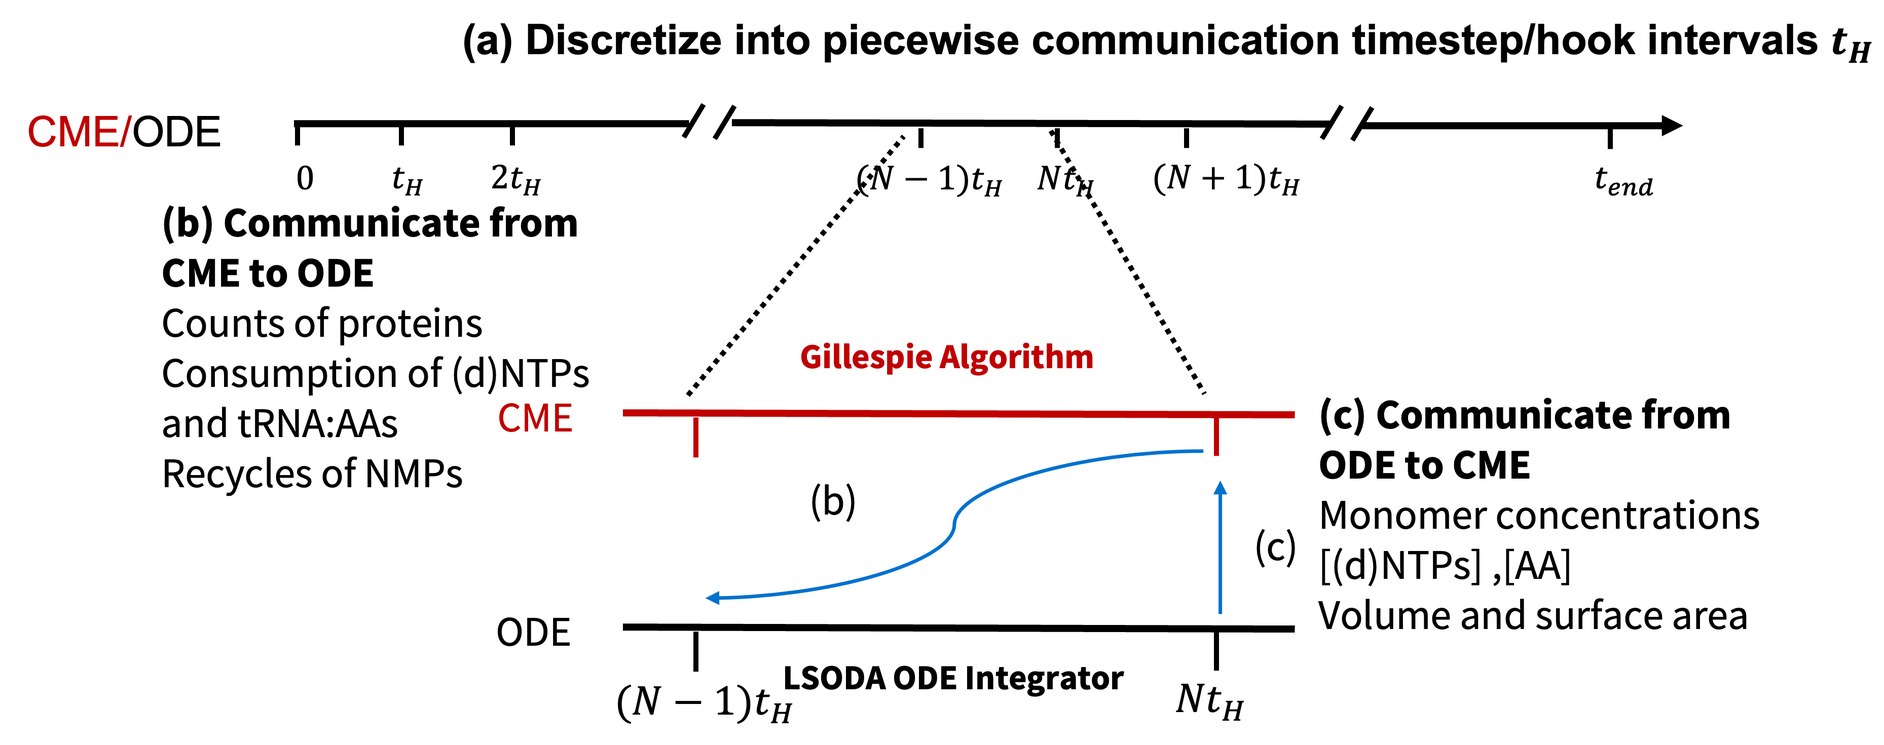
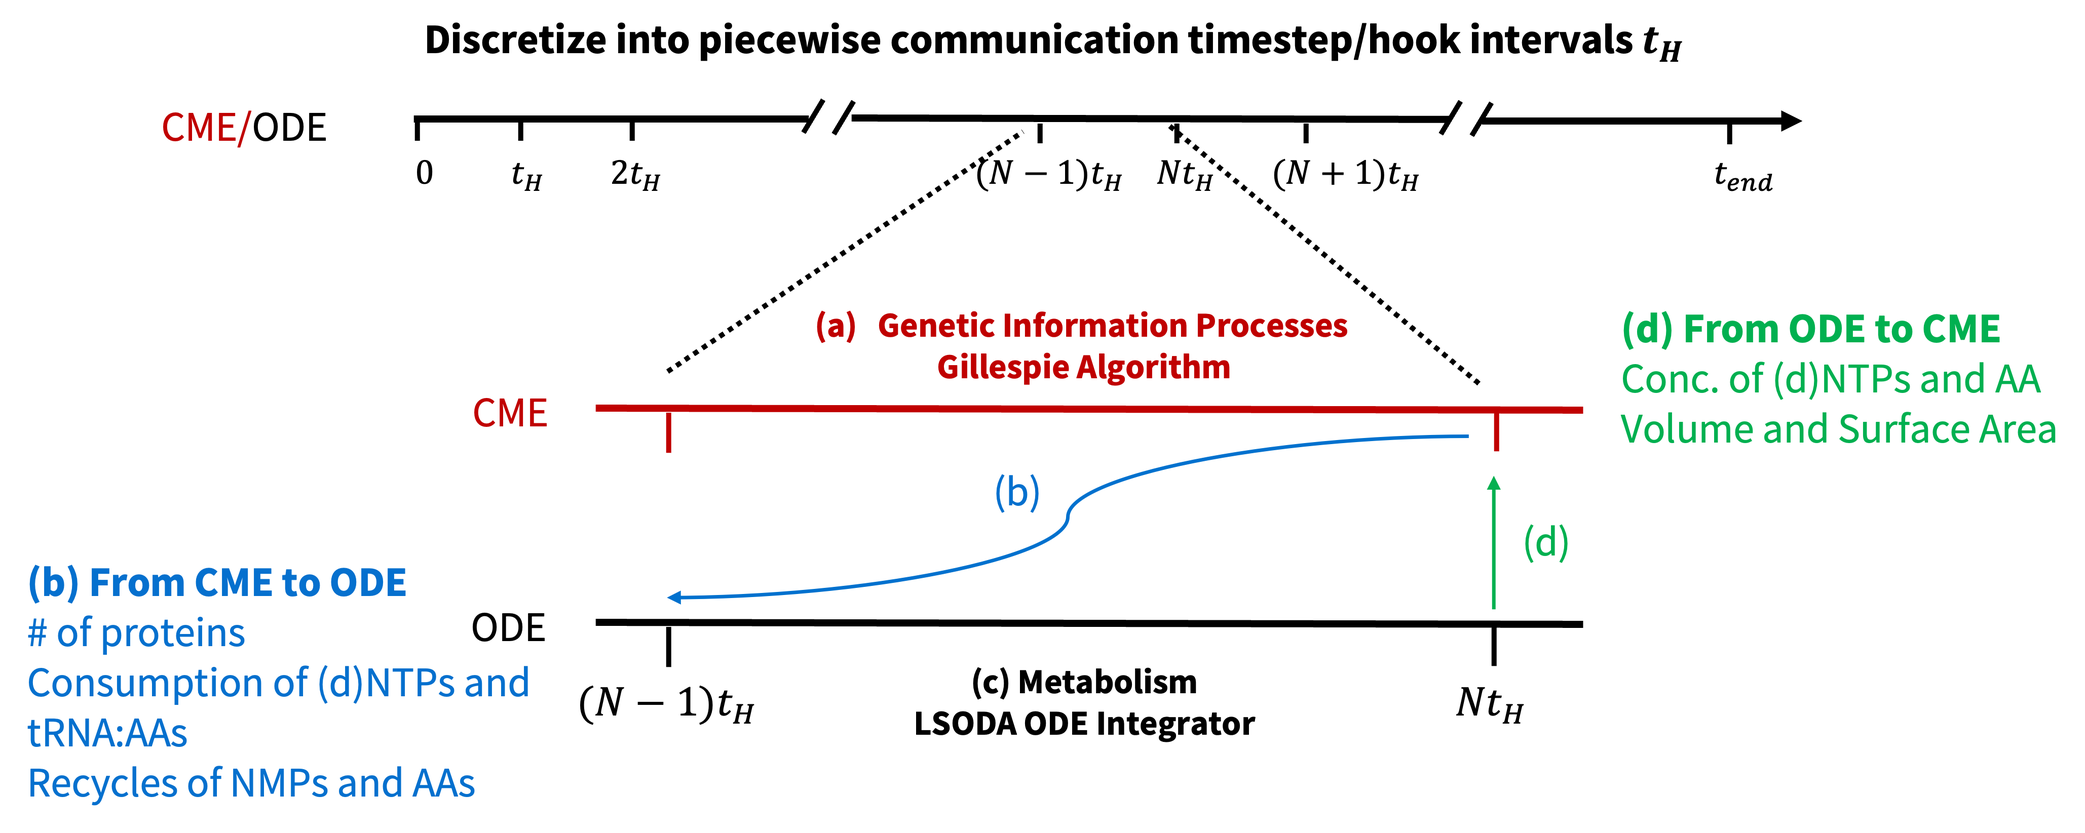
update

diff --git a/CME/WCM/README.md b/CME/WCM/README.md
@@ -1,18 +1,46 @@
 # CME-ODE Whole-Cell Model of a Genetically Minimal Cell, JCVI-Syn3A
 
 ## Outline:
-
-1. Run CME/ODE Whole-Cell Model in Parallel
-2. Minimal Genome and Genetic Information Processes
-3. Essential Metabolism
-4. Hybrid CME-ODE Algorithm
-5. Analysis
-6. Discussion
+1. [Run CME/ODE Whole-Cell Model in Parallel](#1-run-cmeode-whole-cell-model-in-parallel)
+2. [Minimal Genome and Genetic Information Processes](#2-minimal-genome-and-genetic-information-processes)
+3. [Essential Metabolism](#3-essential-metabolism)
+4. [Hybrid CME-ODE Algorithm](#4-hybrid-cme-ode-algorithm)
+5. [Analysis](#5-analysis)
+6. [Discussion](#6-discussion)
   
 ## 1. Run CME/ODE Whole-Cell Model in Parallel
 
 We launch independent cell replicates to sample the statistically significant cellular dynamics. To increase the simulation speed, running independent replicates in parallel is inevitable. In our current implementation, we use `mpirun` module to launch simulation python scripts in parallel.  The
 main script is `WCM CMEODE Hook.py` calling multiple other python scripts to construct and simulate the genetic information processes, metabolism and their interactions over the whole cell cycle. Essentially, we use LM and build-in Gillepsie algorithm to construct and then simulate the genetic information processes. The ODEs are written/constructed by odecell, a package developed by former group member and simulated by well-known LSODA algorithm in Scipy library.
+
+### Scripts
+
+<details>
+<summary><strong>Click to EXPAND: Explanation of All Python Scripts </strong></summary>
+
+#### Main Driver
+
+- `WCM_CMEODE_Hook.py` — Main script to launch the CMEODE simulation.
+
+#### Simulation Core
+
+- `species_counts.py` — Python Class for managing species count data in the hook algorithm.
+- `integrate.py` — Performs ODE integration using *lsoda* from Scipy.
+- `initiation.py` — Initializes constants, time traces, and cell membrane.
+- `communicate.py` — Syncs CME and ODE states, computes costs, and updates the membrane.
+- `hookSolver_CMEODE.py` — Defines `hookSimulation`, the main hook interval operation.
+- `hook_CMEODE.py` — Manages operations that communicate CME and ODE during hooks.
+- `filesaving.py` — Exports time traces, surface area, and fluxes to CSV files.
+
+#### Biology Modules
+
+- `rxns_CME.py` — Adds genetic information process (GIP) reactions to CME (e.g., replication, transcription, translation, tRNA charging).
+- `cme_complexation.py` — Adds protein complex formation reactions to CME.
+- `rxns_ODE.py` — Builds the ODE system using `odecell` (metabolic parameters from `kinetic_params.xlsx`).
+- `replication.py` — Defines DNA replication initiation and reactions (GIP parameter from `kinetic_params.xlsx`).
+- `GIP_rates.py` — Computes reaction rates for GIP processes (GIP parameter from `kinetic_params.xlsx`).
+
+</details>
 
 <p align="center">
   <img src="../figs/figs_WCM/parallel.png" width="900" alt="mpirun to launch parallel simulation"> <br>
@@ -58,28 +86,15 @@ Each simulation replicate with index *i* generates:
 - `log_i.txt`: Log file with timestamps, printed reactions, run times, and any warnings/errors.
 
 Output files are saved to directories defined and created in `mpirun.sh`. Typical CSV file size ranges from **100–200 MB** for a 7200 s simulation with 1 s hook intervals.
-### Scripts
 
-<details>
-<summary><strong>Click to expand: Derivation of the RDME</strong></summary>
-
-Here is a detailed derivation of the Reaction-Diffusion Master Equation (RDME).
-
-Start from the chemical master equation (CME):
-$$
-\frac{dP(\mathbf{x},t)}{dt} = \cdots
-$$
-
-Then extend it by adding diffusion terms:
-$$
-\cdots
-$$
-
-</details>
 
 ### Input Files
 
 Four main input files are used in whole-cell simulation: one Genbank file, one SBML file, and two Excel files. The `syn3A.gb` Genebank file contains the sequences and functions of genes, RNAs, and proteins, and the `Syn3A_updated.xml` SBML file contains the metabolic reactions (reactants, stoichiometries). `The intitial_concentration.xlsx` file contains the initial count/concentrations of proteins and metabolite while `kinetic params.xlsx` contains the kinetic parameters of the GIP and metabolic reactions.
+
+
+<details>
+<summary><strong>Click to EXPAND: Breakdown of Input Files</strong></summary>
 
 - `syn3A.gb` — GenBank file of JCVI-Syn3A 
   - Obtained from ([NCBI Accession: CP016816](https://www.ncbi.nlm.nih.gov/nuccore/CP016816)).
@@ -110,18 +125,200 @@ Four main input files are used in whole-cell simulation: one Genbank file, one S
 
 - `complex_formation.xlsx` — Defines the composition and initial counts of protein complexes.
 
+</details>
 
+Now, we will focus on gene **JCVISYN3A_0011** to show how the different input files function in our simulation.
 
+The genome information of JCVI-syn3A is stored as standard Genbank file on NCBI with [ACCESSION Number CP016816.2](https://www.ncbi.nlm.nih.gov/nuccore/CP016816.2/). The Genbank file holds much more information than the pure nucleotide sequence. 
+
+Go to Genbank file under `input_data` folder and open with text editor. Search **JVCISYN3A_0011** and you wil see the following figure. **JCVISYN3A_0011** is the LocusTag of this certain gene in organism JCVI-syn3A, and *JCVISYN3A_* serving as a unique idetifier. 0011 is the locusNum that will be heavily used in the modelling to distinguish unique genes, RNAs, and proteins from each other. The start and end index of **JCVISYN3A_0011** is 15153 and 16799, respectively and the nucleotide sequence is at the end of the Genbank file. **JCVISYN3A_0011** is protein-coding gene and the protein is "Nucleoside Transporter ABC substrate-binding protein" with amino acid sequence shown. This protein is one subunit of ribonucleoside ATP-binding cassette (ABC) transporters that is assumed to import all nucleosides for Syn3A.
+
+<p align="center">
+  <img src="../figs/figs_WCM/jcvisyn3a_0011.png" width="450" alt="mpirun to launch parallel simulation"> <br>
+  <b>Figure 2. Entry JCVISYN3A_0011 in Syn3A's Genbank file</b>
+</p>
+
+SBML (System Biology Markup Language) format is widely used in storing computational models of biological processes. The SBML file here contains the whole metabolic system of Syn3A, including compartments (cellular and extracellular), species, reactions, gene product (enzymatic or transporter proteins associated with reactions), and objective function (for Flux Balance Analysis). 
+It's worth noting that the kinetic constants of 175 reactions are in \textit{kinetic\_params.xlsx}.
+
+Nucleoside Transporter ABC substrate-binding protein encode by gene **JCVISYN3A_0011** functions in reaction DSGNabc, irreversible transport of deoxyguanosine in nucleotide metabolism. Figure \ref{fig:sbml} shows reaction DSGNabc in SBML file. We define \textit{reversible} as \textit{false} since DSGNabc is a irreversible transport reaction. There are three reactants and four products. The geneProductAssociation rule is *and*, meaning the four subunit proteins need to function cooperatively.
+
+<p align="center">
+  <img src="../figs/figs_WCM/sbml.png" width="450" alt="SBML entry of DSGNabc reaction"> <br>
+  <b>Figure 3. Entry Reaction DSGNabc in SBML file</b>
+</p>
+
+The kinetic constants for this DSGNabc reaction in `kinetic\_params.xlsx` is shown as following.
+
+<p align="center">
+  <img src="../figs/figs_WCM/dsgnabc_kinetic.png" width="450" alt="SBML entry of DSGNabc reaction"> <br>
+  <b>Figure 4. Kinetic Constants for Reaction DSGNabc</b>
+</p>
 
 ## 2. Minimal Genome and Genetic Information Processes
 
-## 3. Essential Metabolism
+### Genetically Minimized Bacterium, JCVI-Syn3A
+
+Minimal cell, JCVI-syn3A is a synthetic bacterium based on mother organism Mycoplasma mycoides capri published by J. Craig Venter Institute in 2016 \cite{hutchison_design_2016}. JCVI-syn3A has a doubling time of about 2 hours and consistently forms spherical cells of approximately 200 nm in radius.
+
+JCVI-syn3A's genome is minimal in all living organism, 543 kbp long and containing 452 genes code for proteins and 38 genes for RNAs. The ratio of unclear protein-coding genes is 90 out of 452, which is also smallest compared to other well-studied organism, including yeast and E. coli \cite{breuer_essential_2019}.
+
+<p align="center">
+  <img src="../figs/figs_WCM/syn3A_genome.png" width="450" alt="Minimized Genome"> <br>
+  <b>Figure 5. Left: Protein Coding Genes of JCVI-syn3A. Only less than 90 genes are unclear.  <br>
+  Right: JCVI-syn3A with genetic information processes and metabolism shown. </b>
+</p>
+
+### Genetic Information Processes
+
+Genetic information processes connect the blueprint genes to functional proteins. In our current whole cell model of minimal cell, we mainly consider seven types of processes listed in table.
+
+Replication copies the genetic information with the regulation of replication initiation. Transcription copies sequential information from DNA to RNA. There are three types of RNA, including mRNA, rRNA and tRNA that are tightly connected by translation. Translation takes place on ribosomes, where mRNA is read and an amino acid chain is generated according to the sequence of mRNA. rRNA, together with other ribosome proteins make up ribosomes in ribosomal biogenesis \cite{earnest_ribosome_2016}. tRNA is the carriers and identifier of amino acid to the ribosome. 
+
+<p align="center">
+  <img src="../figs/figs_WCM/gip_table.png" width="450" alt="GIP reactions"> <br>
+  <b>Figure 6. Left: Genetic Information Flow. <br>
+  Right: Functions of GIP reactions. </b> 
+</p>
+
+
+The translation and degradation reactions in current whole cell model are more precise compared to the simplest case in Tutorial 2 as for each reaction, mRNA first needs to bind with a complex machinery, degradosome or ribosome. As the busiest species in genetic information processes, mRNA can also be degraded by binding with degradosome. This competition of mRNA to bind with ribosome or degradosome is a important pathway to regulate genetic information processes that will shown in the following result.
+
+
+Replication initiation is modeled by the binding of multi-domain protein DnaA (encoded by JCVISYN3A\_0001) and replisome with certain region called oriC on the chromosome \cite{thornburg_kinetic_2019}. 
+
+<p align="center">
+  <img src="../figs/figs_WCM/oric_dnaA.png" width="450" alt="DnaA with Ori"> <br>
+  <b>Figure 7. Left: Left: oriC region. 9 nucleotide signature binding with DnaA domain IV shown in yellow and red, 3 nuclotide AT rich region binding with DnaA domain III shown in grey. <br>
+  Right: PDB structure of DnaA domain IV and domain III binding with chromosome a): \cite{fujikawa_structural_2003} b): \cite{duderstadt_dna_2011} </b> 
+</p>
+
+First stage of initiation is the binding of DnaA's Domain IV with nine-nucleotide signatures on double-strand DNA(three of them, shown in red and yellow in Figure \ref{oric_dnaA}). This binding will open a pocket for DnaA's Domain III to bind with AT rich region on single-strand DNA following the nine-nucleotide signatures to build a filament of DnaA on single-strand DNA. The final step is the binding of replisome with the chromosome after the filament grows above 15 DnaA with 30 DnaA maximum due to the length of AT rich region is 90. In current model, the assembly of replisome is not explicitly included.
+
+<p align="center">
+  <img src="../figs/figs_WCM/initiation.png" width="450" alt="DnaA with Ori"> <br>
+  <b>Figure 8. Three stage DNA replication initiation </b> 
+</p>
+
+Replication occurs gene by gene when replisomes move along the circular chromosome from oriC to ter in two directions. Since the locations of genes are fixed, the replication happens in order. So our replication model is ordered and bidirectional.
+
+<p align="center">
+  <img src="../figs/figs_WCM/rep.png" width="450" alt="DnaA with Ori"> <br>
+  <b>Figure 9. Ordered and Bidirectional Replication </b> 
+</p>
+
+The equivalent reaction to duplicate certain gene is in Table \ref{tab:CMErxns} The rate to replicate one gene in Table \ref{tab:CMErates} is determined by a polymerization rate form proposed in \cite{hofmeyr_generic_2013}.  
+
+**Table 1: Reactions and Rates for Replication, Transcription, Translation and Degradation**
+
+| **Processes**  | **Reactions**                                                                 | **Kinetic Constant**                      |
+|----------------|-------------------------------------------------------------------------------|-------------------------------------------|
+| Replication     | $G_{\text{locusNum}} \rightarrow 2G_{\text{elongation}}$                      | $k_{\text{replication}}^{\text{locusNum}}$ |
+| Transcription   | $RNAP + G_{\text{locusNum}} \rightarrow RNAP:G_{\text{locusNum}}$            | $k_{\text{trsc}}^{\text{binding}}$         |
+|                | $RNAP:G_{\text{locusNum}} \rightarrow R_{\text{locusNum}} + RNAP + G_{\text{locusNum}}$ | $s_{\text{trsc}}^{\text{locusNum}} k_{\text{trsc}}^{\text{elongation}}$ |
+| Translation     | $Ribosome + R_{\text{locusNum}} \rightarrow Ribosome:R_{\text{locusNum}}$     | $k_{\text{trans}}^{\text{binding}}$        |
+|                | $Ribosome:R_{\text{locusNum}} \rightarrow P_{\text{locusNum}} + Ribosome + R_{\text{locusNum}}$ | $k_{\text{trans}}^{\text{elongation}}$ |
+| Degradation     | $Degradosome + R_{\text{locusNum}} \rightarrow Degradosome:R_{\text{locusNum}}$ | $k_{\text{degra}}^{\text{binding}}$       |
+|                | $Degradosome:R_{\text{locusNum}} \rightarrow NMPs + Degradosome$              | $k_{\text{degra}}^{\text{depoly}}$        |
+
+Transcription, translation and degradation are all depicted as a two-step binding and (de)polymerizatoin reactions where the polymerization in transcription and translation shares the same rate form as that in replication. The rate for degradation from a mRNA to its monomers is calculate by divide the monomer depletion rate over the length of mRNA.
+
+**Table 2: Rate Form for Replication, Transcription, Translation and Degradation**
+
+| **Processes**   | **(De)polymerization Constants**                  | **Formulation**                                                                                                                                  |
+|-----------------|---------------------------------------------------|--------------------------------------------------------------------------------------------------------------------------------------------------|
+| Replication     | $k_{\text{elongation}}^{\text{replication}}$      | $\dfrac{k_{\text{replication}}^{\text{cat}}}{\dfrac{K_{D1} K_{D2}}{[dNTP_1][dNTP_2]} + \sum_i \dfrac{K_{Di}}{[dNTP_i]} + L_{\text{DNA}} - 1}$     |
+| Transcription   | $k_{\text{elongation}}^{\text{trsc}}$             | $\dfrac{k_{\text{transcription}}^{\text{cat}}}{\dfrac{K_{D1} K_{D2}}{[NTP_1][NTP_2]} + \sum_i \dfrac{K_{Di}}{[NTP_i]} + L_{\text{RNA}} - 1}$     |
+| Translation     | $k_{\text{elongation}}^{\text{trans}}$            | $\dfrac{k_{\text{translation}}^{\text{cat}}}{\dfrac{K_{D1} K_{D2}}{[\text{tRNA:aa}_1][\text{tRNA:aa}_2]} + \sum_i \dfrac{K_{Di}}{[\text{tRNA:aa}_i]} + L_{\text{protein}} - 1}$ |
+| Degradation     | $k_{\text{depoly}}^{\text{degra}}$                | $\dfrac{k_{\text{cat}}^{\text{degra}}}{L_{\text{mRNA}}}$                                                                                        |
+
+## 3. Essential Metabolism and Rate Law
+
+### Essential Metabolism
+
+As mentioned, replication, transcription, and translation all require monomers (deoxyribonucleotide (dNTPs), ribonucleotide (NTPs), and amino acids (AAs)) for the polymerizations reactions. 
+
+All the supply of monomers comes from metabolism of JCVI-syn3A. The (d)NTPs are generated in nucleotide metabolism that transport extracellular nucleoside and convert nucleoside to (d)NTPs used in the DNA and RNA synthesis. The other building blocks, such as phosphoribosyl pyrophosphate (prpp), phosphoenolpyruvate (pep), and 1,3-Bisphosphoglyceric acid (1,3dpg) along these pathways are the products in glycolysis in central metabolism \ref{NTP_supply}.
+
+<p align="center">
+  <img src="../figs/figs_WCM/NTP_supply.png" width="450" alt="GTP synthesis"> <br>
+  <b>Figure 10. Supply of GTP and dGTP for DNA and RNA synthesis in nucleotide metabolism. The metabolites in the bracket come from central metabolism </b> 
+</p>
+
+The whole metabolism network can be separated to five connected sub-networks, including central, nucleotide, lipid, cofactor and amino acid. Glucose 6-phosphate (g6p) the immediate downstream of glucose in glycolysis connects central and lipid metabolism, while Adenosine triphosphate (ATP) that generated in glycolysis provides energy for reactions in all five sub-networks. 
+
+<p align="center">
+  <img src="../figs/figs_WCM/metabolism.png" width="450" alt="GTP synthesis"> <br>
+  <b>Figure 11. Whole Metabolism of JCVI-syn3A with five subsystems: central, nucleotide, lipid, cofactor and amino acid. </b> 
+</p>
+
+In our current whole cell modeling, 197 metabolites are included, 148 cytoplasmic and 49 extracellular. 175 reactions connect the metabolites. Shown in the network of central metabolism, the orange nodes are the metabolite IDs. We use suffix '\_c' to denote cytoplasmic and '\_e' for extracellular. The blue arrows are reactions connecting different metabolites, with names in dark blue and related proteins' locusNums under the names. 
+
+ATP as the major energetic molecules energize cellular processes, without which the cell will die. In JCVI-syn3A, glycolysis is the only way to generate ATP. Phosphoenolpyruvate (pep) is an intermediate in both the upstream and downstream in glycolysis.
+
+<p align="center">
+  <img src="../figs/figs_WCM/central_pep.png" width="450" alt="GTP synthesis"> <br>
+  <b>Figure 12. Central Metabolism in JCVI-syn3A. Phosphoenolpyruvate (pep) is both the upstream and downstream of glycolysis. 1,3-Bisphosphoglyceric acid (1,3dpg), Phosphoribosyl pyrophosphate (prpp) and pep are in nucleotide metabolism. </b> 
+</p>
+
+
+### Convenience Rate Law
+
+Most reactions in the metabolism requires certain proteins produced in genetic information processes as enzymes or transporters. Convenience rate law and random binding model are used to depict the kinetics of these reactions \cite{liebermeister_bringing_2006}.
+
+The random binding model assumes the substrates bind to the enzyme/transporter in arbitrary order and are converted into the products, which then dissociate from the enzyme in arbitrary order. Convenience rate law further assumes the conversion step is the rate-determining step and the binding reactions are in quasi-equilibrium. For reaction
+
+```math
+\ce{A + X <=>[k_f][k_r] B + Y}
+```
+
+, the rate law is
+
+<p align="center">
+  <img src="../figs/figs_WCM/convenience.png" width="450" alt="GTP synthesis"> <br>
+  <b>Figure 13. Mechanism of reaction A+X to B+Y in random binding model. [E] is the concentration of enzyme, [A] concentration of molecule A </b> 
+</p>
+
+The metabolic network is also stored in standard Systems Biology Markup Language (SBML) file. In the given SBML file of JCVI-syn3A, there are two compartments, cellular and extracellular with metabolites and reactions. However, SBML file itself does not store kinetic parameters and we choose to store them in a Excel file with multiple sheets for the simulation.
+
+We can look at one reaction entry in the SBML file for more insights. Go to the SBML file and search DGSNabc. DGSNabc, the irreversible transport of deoxyguanosine (one of RNS ABC import system) in nuclotide metabolism for example, has three reactants and four products with four proteins involved. The geneProductAssociation is AND, meaning four proteins are all needed to perform this reactions. Biologically, four proteins are four sub-units of nucleoside ABC transporter.
+
 
 ## 4. Hybrid CME-ODE Algorithm
 
+### Step-wise Communication Between CME and ODE
+
+The discreteness and stochasticity of chemical kinetics play a role when the number of reactants is significantly low. This makes it necessary to use stochastic chemical master equation (CME) for genetic information processes (GIP) where the copy numbers of species are low, shown as follows to sample the variation. In contrast, ordinary differential equations (ODE) is sufficient to depict the kinetics of large numbers of small metabolites in metabolism.
+
+$\frac{dP(\mathbf{x},t)}{dt}=\sum_{r}^{R} [-a_r({{\mathbf{x}}}) P({{\mathbf{x}}},t) + a_r({{\mathbf{x}}}_\nu-\mathbf{S_r}) P({{\mathbf{x}}}-\mathbf{S_r},t)]$
+
+To simulate the **co-evolution** of GIP and metabolism, the communication needs to be performed to describe the interactions between these two subsystems. We then proposed to use **[Hybrid CMEODE simulation](https://ietresearch.onlinelibrary.wiley.com/doi/10.1049/iet-syb.2017.0070)**.  We first discretize the entire simulation length into piecewise communication time steps (hook intervals, $t_H$). During each communication time step, 
+
+**(a)** A CME simulation of length $t_H$ is performed to describe the kinetics in GIP. 
+
+**(b)** The communication from CME to ODE by passing the protein counts, the consumption of monomers (dNTP, NTP, and amino acid charged tRNAs), and the recycling of nucleoside monophosphates (NMP) in the degradation of mRNA and recycling of amino acids in the degradation of membrane protein. 
+
+**(c)** Then a $t_H$ length ODE simulation is performed with the updated concentrations of proteins and metabolites. 
+
+**(d)** The impacts of metabolism on GIP are two-fold: the abundance of metabolites explicitly in GIP and the concentrations of monomers that affect the rates in the polymerization of gene, RNA, and protein.
+
+<p align="center">
+  <img src="../figs/figs_WCM/communication.png" alt="GIP_Cplx" width="400">
+</p>
+
+### Program Flowchart
+
+The CME simulation is executed using Lattice Microbes (LM) with direct Gillespie algorithm. We employ the `hookSimulation` function to interrupt the CME timeline and enable communication with the ODE solver. For the ODE simulation, we use the **[odecell](https://github.com/Luthey-Schulten-Lab/odecell)** software developed by the Luthey-Schulten Lab, which maps metabolic reactions to ordinary differential equations and specifies the corresponding kinetic parameters. The resulting ODE system is solved using the *lsoda* algorithm from the SciPy library.
+
+One extra thing to notice is that the CME rates are also updated per second after the metabolism simulation in ODE to account for the possible shortage of monomers that will decrease the rate in genetic information process.
+
+<p align="center">
+  <img src="../figs/figs_WCM/Flowchart_CMEODE_WCM_Poster.png" alt="GIP_Cplx" width="400">
+</p>
+
 ## 5. Analysis
 
-### Run pkl.ipynb then plotting.ipynb on Jupyter Notebook Webpage
+### Run ~~pkl.ipynb~~ then plotting.ipynb on Jupyter Notebook Webpage
 + **First**: Navigate to `./LM/CME/WholeCellModel/analysis` in Jupyter Notebook Webpage.
   
 + **Second**: Open *pkl.ipynb* and **Run All** to serialize the CSV files into one single python pickle file.  
@@ -130,4 +327,18 @@ Four main input files are used in whole-cell simulation: one Genbank file, one S
 + **Thrid**: Open *plotting.ipynb* and **Run All** to generate the plots.  
   Compare the plots with figures in *Summer_School_CME_2024.pdf*.
 
+### Cell growth
+
+### Doubling of Proteome
+
+### Traces of important metabolite
+
 ## 6. Discussion
+
+### DNA initiation
+
+### Stochastic translation of protein
+
+### Translation per mRNA
+
+### Slowdown of GIP

diff --git a/CME/README.md b/CME/README.md
@@ -14,7 +14,7 @@ In ***Coupled genetic information processes and metabolism in Minimal Cell*** tu
 2. Introduction to Lattice-Microbe, a GPU Accelerated Stochastic Simulation Platform
 3. Tutorial: Bimolecular Reaction Solved Stochastically in CME
 4. Tutorial: Stochastic Genetic Information Processs in CME
-5. Tutorial: CMEODE Whole-Cell Model of a Genetically Minimal Cell, JCVI-Syn3A
+5. Tutorial: CME-ODE Whole-Cell Model of a Genetically Minimal Cell, JCVI-Syn3A
    
 ## 1. Set up the tutorial on Delta
 
@@ -106,7 +106,7 @@ The advantage of Jupyter Notebook is that you could navigate the folders and run
 
 **Go to [Genetic Information Processes](GIP/)**
 
-## 5. Tutorial: CMEODE Whole-Cell Model of a Genetically Minimal Cell, JCVI-Syn3A
+## 5. Tutorial: CME-ODE Whole-Cell Model of a Genetically Minimal Cell, JCVI-Syn3A
 
 **Go to [CME-ODE WCM of Syn3A](WCM/)**
 
